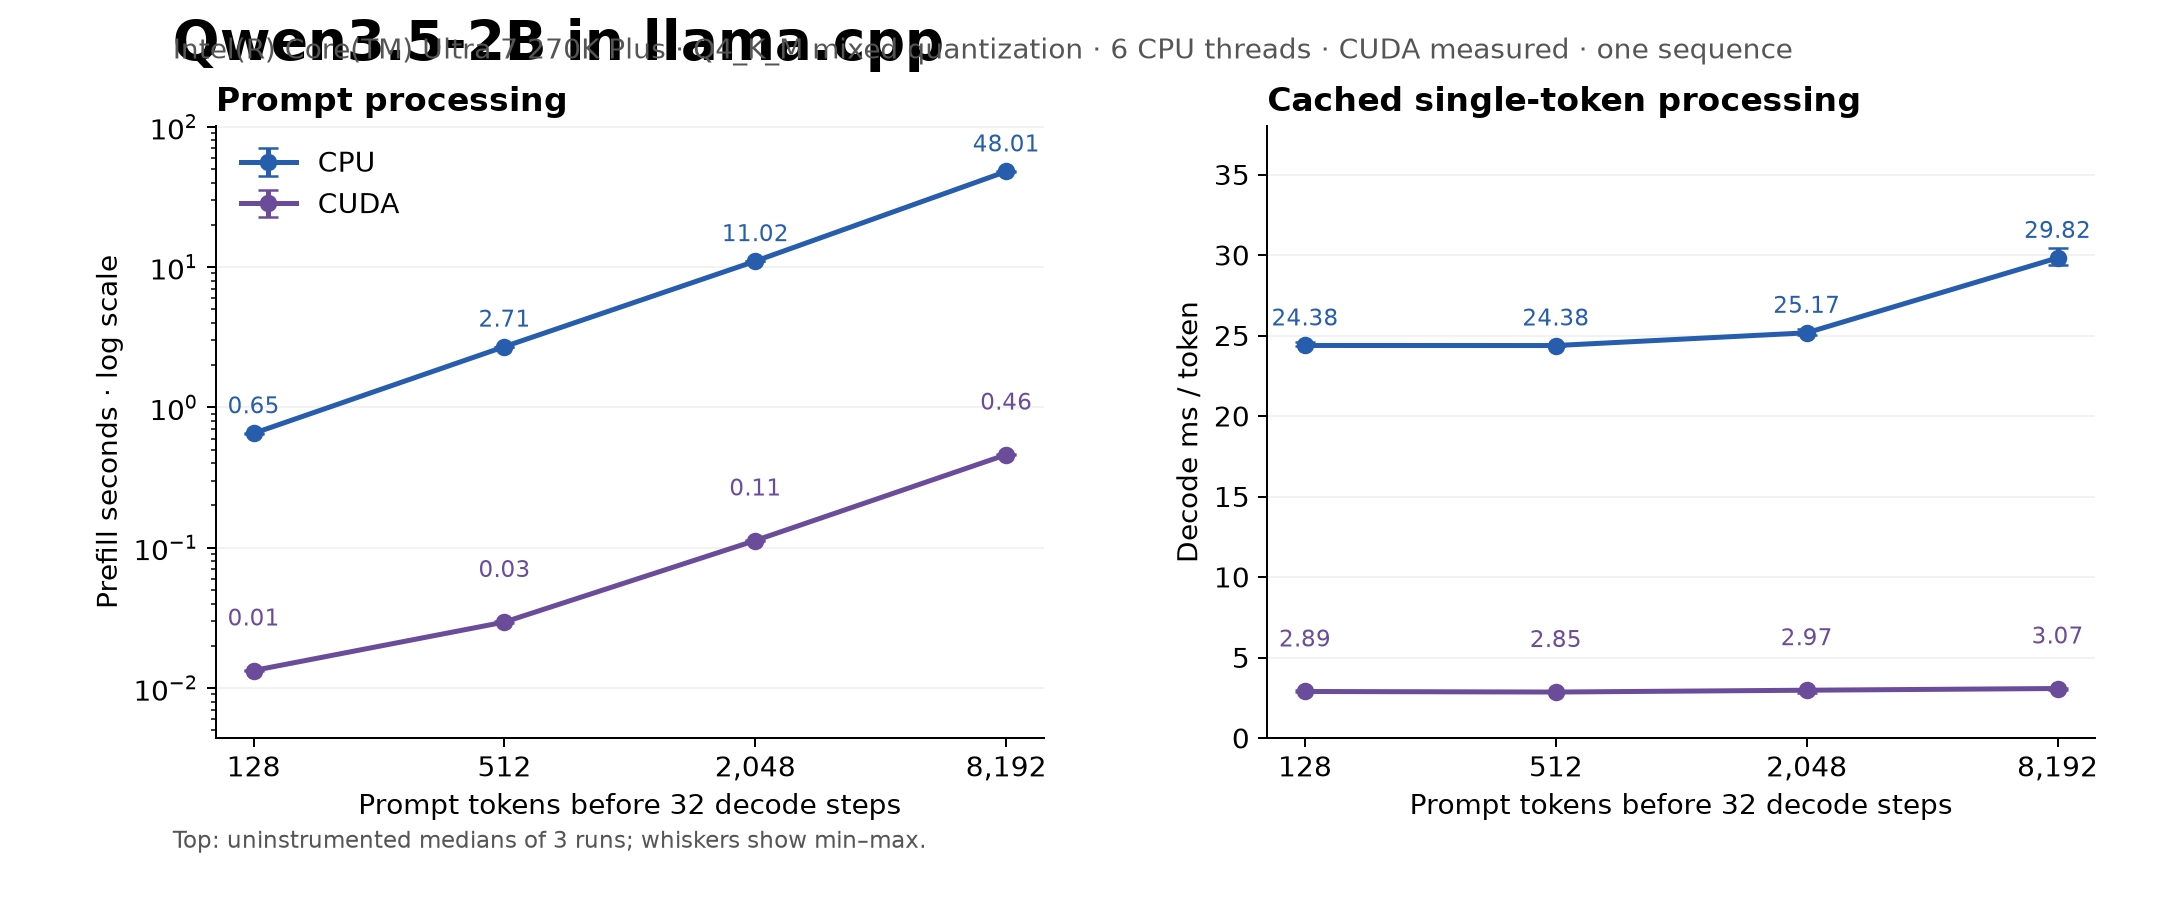
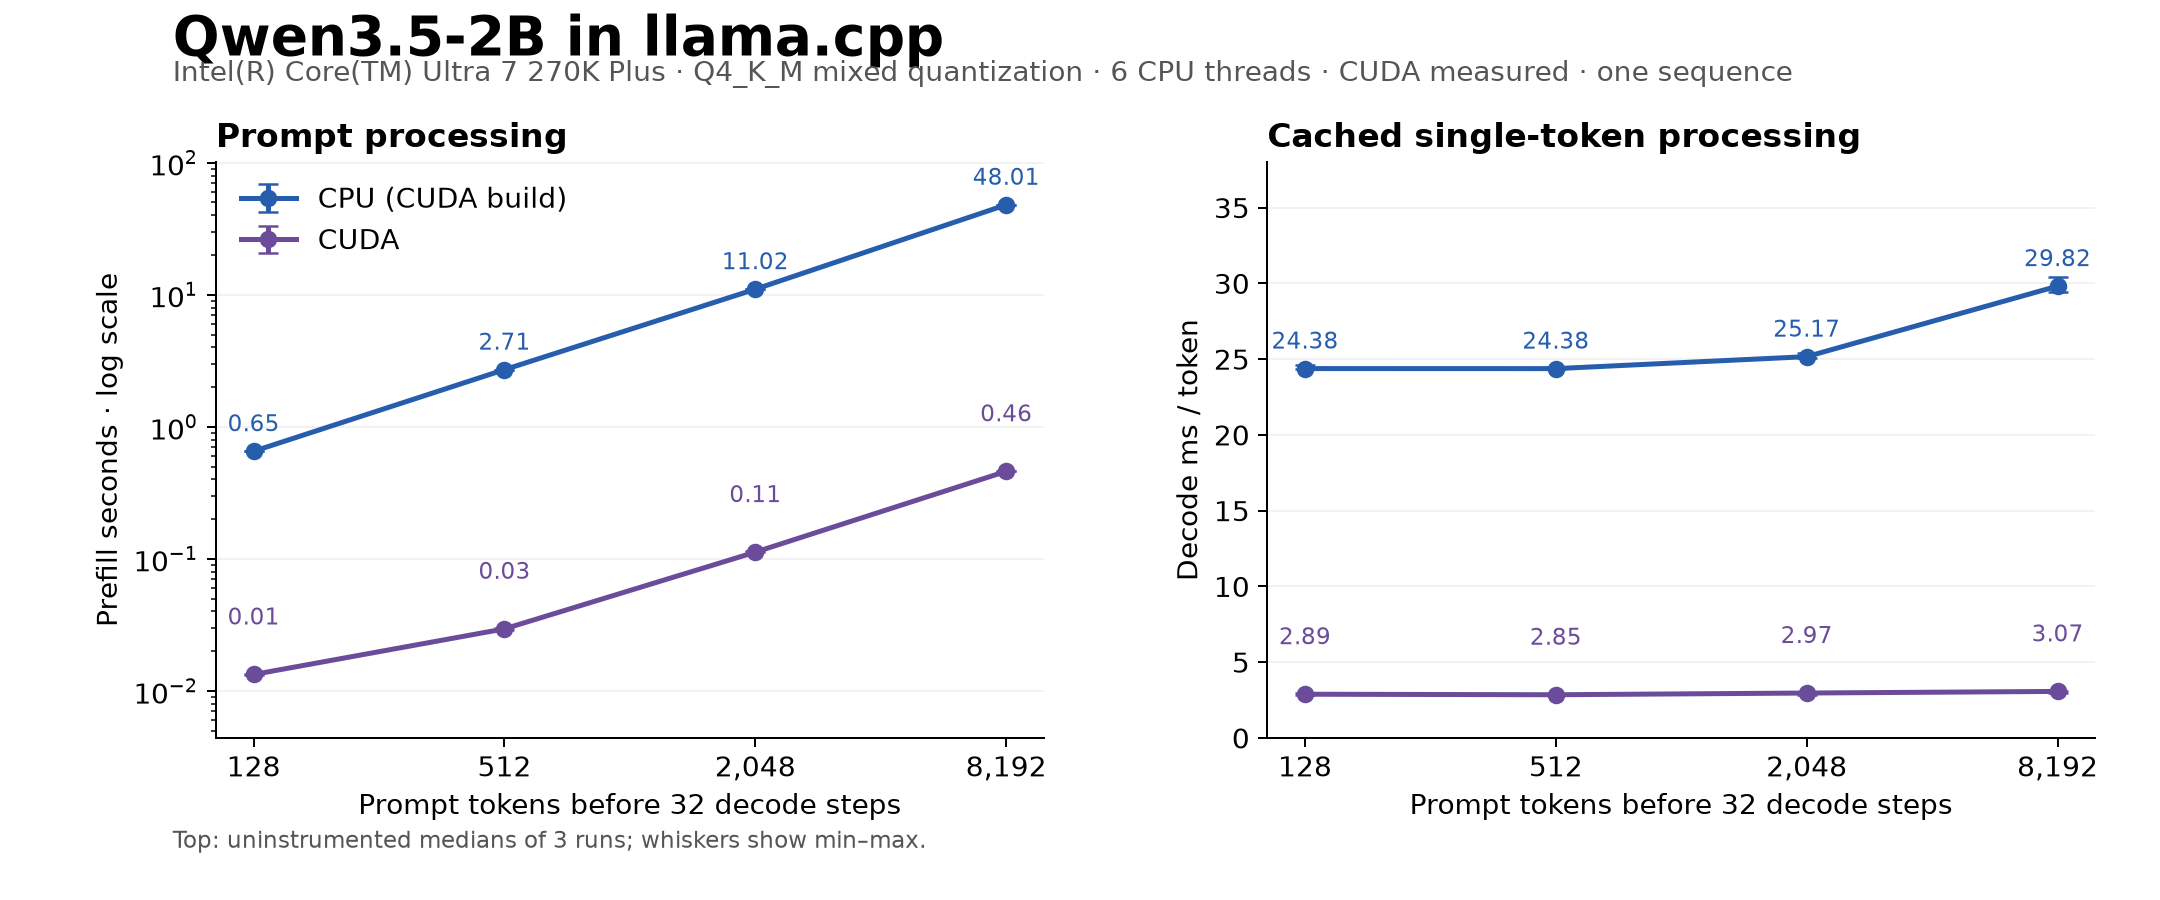
Fix profiling figure layout and labels

diff --git a/core/analysis/plot.py b/core/analysis/plot.py
@@ -30,6 +30,17 @@ def run_names(experiment, backend):
     return [f"{backend}-{tag}" for tag in tags]
 
 
+def cpu_label(baselines):
+    """Older CUDA runs named their same-binary zero-offload control `cpu-*`.
+    Split-build runs contain `cuda-cpu-*`, which makes `cpu-*` the canonical CPU-only build."""
+    runs = {row["run"] for row in baselines}
+    has_cuda = any(name.startswith("cuda-") for name in runs)
+    has_explicit_control = any(name.startswith("cuda-cpu-") for name in runs)
+    if has_cuda and not has_explicit_control:
+        return "CPU (CUDA build)"
+    return "Canonical CPU" if has_explicit_control else "CPU"
+
+
 def subtitle_for(results_dir, override):
     if override:
         return override
@@ -42,6 +53,7 @@ def subtitle_for(results_dir, override):
 
 def draw(results_dir, out_dir, experiment, subtitle=None):
     baselines = load_json(results_dir / "summary.json")
+    cpu_legend = cpu_label(baselines)
     has_ops = exists(results_dir / "operation-summary.json")
     ops = load_json(results_dir / "operation-summary.json")["runs"] if has_ops else []
     plt.rcParams.update({"font.family": "DejaVu Sans", "font.size": 11,
@@ -70,7 +82,7 @@ def draw(results_dir, out_dir, experiment, subtitle=None):
                                       (ax2, "decode_ms", "decode_min_ms", "decode_max_ms")):
             y = np.array([r[metric] for r in data])
             err = np.array([[r[metric] - r[low] for r in data], [r[high] - r[metric] for r in data]])
-            label = {"cpu": "Canonical CPU", "metal": "Metal", "cuda-cpu": "CPU (CUDA build)",
+            label = {"cpu": cpu_legend, "metal": "Metal", "cuda-cpu": "CPU (CUDA build)",
                      "cuda": "CUDA"}[backend]
             ax.errorbar(x, y, yerr=err, marker="o", capsize=4, lw=2, color=COLORS[backend], label=label)
             offsets = {"cpu": 8, "metal": -18, "cuda-cpu": -30, "cuda": 20}
@@ -126,10 +138,10 @@ def draw(results_dir, out_dir, experiment, subtitle=None):
         notes.append("CPU operation shares do not describe GPU kernels or predict accelerator area."
                      + (" Anomalous timing shares for excluded cases omitted."
                         if any(not timing_eligible(experiment, r["prompt_tokens"]) for r in ops) else ""))
-    fig.suptitle("Qwen3.5-2B in llama.cpp", x=.08, y=.98, ha="left", fontsize=22, fontweight="bold")
-    fig.text(.08, .935, subtitle or "", fontsize=11, color="#555")
+    fig.suptitle("Qwen3.5-2B in llama.cpp", x=.08, y=.985, ha="left", fontsize=22, fontweight="bold")
+    fig.text(.08, .91, subtitle or "", fontsize=11, color="#555")
     fig.text(.08, .028, " ".join(notes[:2]) + "\n" + " ".join(notes[2:]), fontsize=9, color="#555")
-    fig.subplots_adjust(top=.86, bottom=.21 if has_ops else .18, left=.1, right=.97)
+    fig.subplots_adjust(top=.82, bottom=.21 if has_ops else .18, left=.1, right=.97)
     fig.savefig(out_dir / "profiling-summary.png", dpi=180)
     fig.savefig(out_dir / "profiling-summary.pdf")
     plt.close(fig)

diff --git a/core/tests/test_cuda_backend.py b/core/tests/test_cuda_backend.py
@@ -18,6 +18,7 @@ import build  # noqa: E402
 import hostinfo  # noqa: E402
 import measure  # noqa: E402
 import platform_profile  # noqa: E402
+import plot  # noqa: E402
 import validate  # noqa: E402
 
 
@@ -53,6 +54,13 @@ class CudaRunner(unittest.TestCase):
         self.assertEqual(build.source_dir(ctx, "baseline"), Path("work/llama.cpp"))
         self.assertEqual(build.source_dir(ctx, "cuda"), Path("work/llama.cpp"))
         self.assertEqual(build.source_dir(ctx, "profile"), Path("work/llama.cpp-profile"))
+
+    def test_cpu_plot_label_distinguishes_legacy_control_from_canonical_cpu(self):
+        legacy = [{"run": "cpu-baseline"}, {"run": "cuda-baseline"}]
+        split = legacy + [{"run": "cuda-cpu-baseline"}]
+        self.assertEqual(plot.cpu_label(legacy), "CPU (CUDA build)")
+        self.assertEqual(plot.cpu_label(split), "Canonical CPU")
+        self.assertEqual(plot.cpu_label([{"run": "cpu-baseline"}]), "CPU")
 
     def test_cpu_cuda_logit_comparison(self):
         experiment = {

diff --git a/changes/Changes-2026-10-05.md b/changes/Changes-2026-10-05.md
@@ -42,5 +42,8 @@ architecture conclusions.
   invariant: canonical CPU baseline versus canonical CPU trace, with CUDA-build CPU kept as a distinct control.
 - A real split-build comparison smoke completed with two of two canonical CPU/profile checkpoints bit-identical;
   a warm cached `--cuda only --smoke` completed end to end in 6.06 seconds without running any CPU case.
+- Regenerated and visually inspected both the historical two-role and new three-role profiling figures. Title,
+  provenance, legends, annotations, axes and footers do not overlap; the historical CPU curve is explicitly
+  labeled as the CUDA-build control rather than the canonical CPU-only reference.
 - The existing immutable 2026-09-22 regression fixtures remain unchanged; the full validation commands and
   final results are recorded in the pull request.
